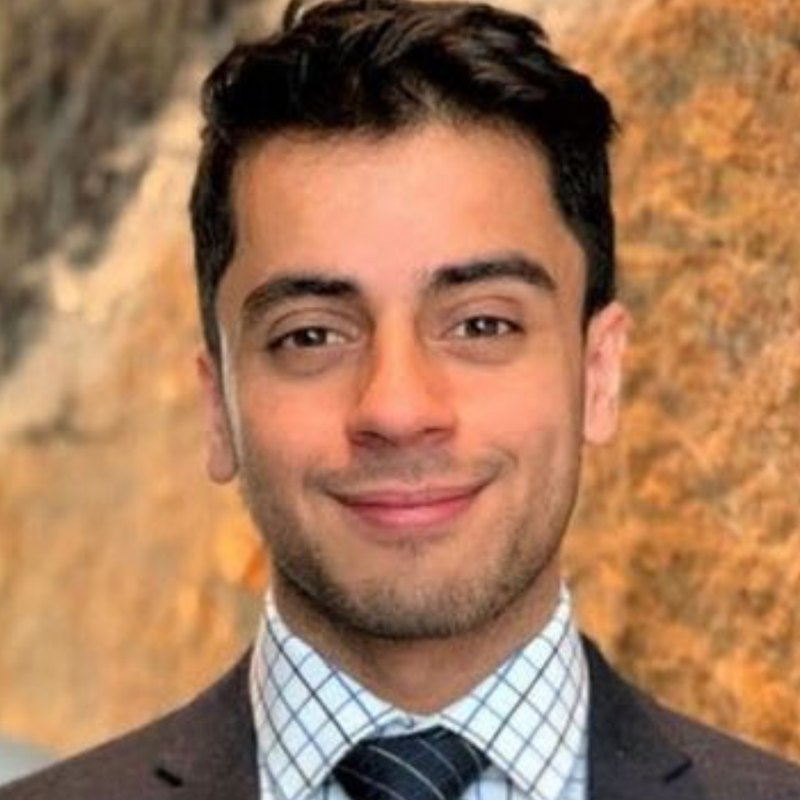
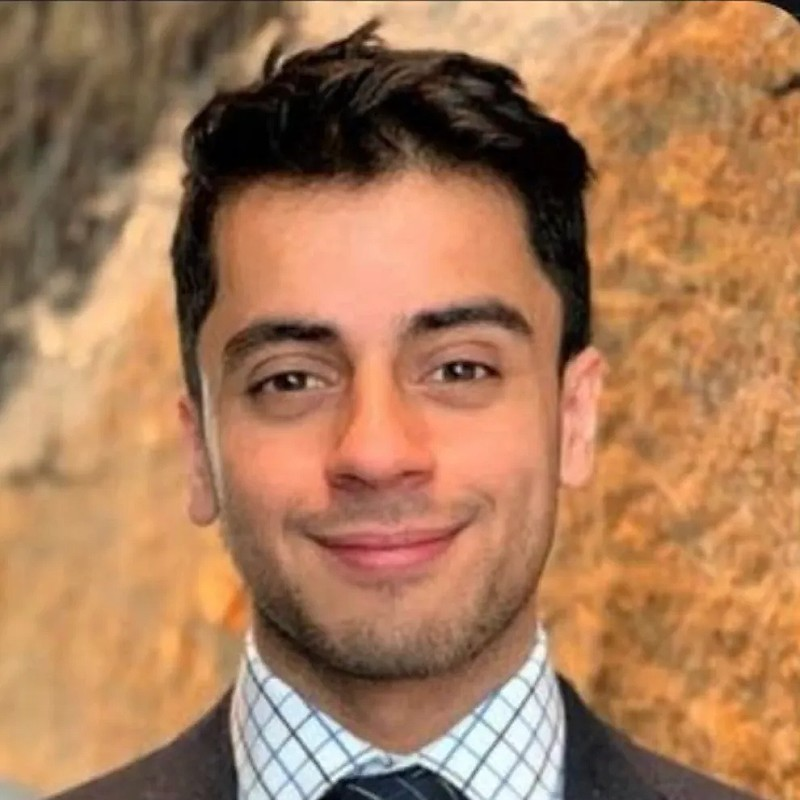
About v3: SF type, efferd-style team grid, new photos; Blog in header; remove monospace labels

diff --git a/src/styles/pages.css b/src/styles/pages.css
@@ -22,11 +22,10 @@ main.pg h2 { font-size: clamp(26px, 3vw, 36px); letter-spacing: -0.025em; }
 .pg-prose .mission { font-size: clamp(22px, 2.4vw, 28px); line-height: 1.3; font-weight: 600; letter-spacing: -0.02em; }
 .pg-founder { display: grid; grid-template-columns: 120px 1fr; gap: 20px; align-items: start; }
 .pg-founder img, .pg-founder picture { width: 120px; height: 120px; border-radius: 20px; object-fit: cover; }
-.pg-mono { width: 120px; height: 120px; border-radius: 20px; display: grid; place-items: center; font: 600 36px var(--mono); letter-spacing: -0.02em; color: var(--accent); background: color-mix(in srgb, var(--accent) 12%, transparent); border: 1px solid var(--line); }
 .rel { display: grid; grid-template-columns: 180px 1fr; gap: 6px 32px; padding: 22px 0; border-top: 1px solid var(--line); }
 .rel:last-child { border-bottom: 1px solid var(--line); }
 .rel-v { display: grid; gap: 2px; align-content: start; }
-.rel-v a { font: 600 15px var(--mono); text-decoration: none; }
+.rel-v a { font: 600 15px var(--sans); text-decoration: none; }
 .rel-v time { font-size: 14px; color: var(--muted); }
 .rel ul { display: grid; gap: 6px; }
 .rel li { position: relative; padding-left: 18px; font-size: 16.5px; line-height: 1.5; }
@@ -37,14 +36,14 @@ main.pg .pg-card h2, main.pg .plan-h h2 { font-size: 19px; letter-spacing: -0.01
 .pg-links a { font-weight: 600; text-decoration: none; }
 .pg-prose h2[id] { scroll-margin-top: 90px; }
 
-/* ---- /about (v2): hero, story, beliefs, people grids, call to action. Motion is opacity/transform only and off for reduced motion. ---- */
-.ab-hero { padding: 120px 0 64px; }
-.ab-eyebrow { font: 600 13px var(--mono); letter-spacing: 0.08em; text-transform: uppercase; color: var(--accent); padding: 6px 14px; border: 1px solid color-mix(in srgb, var(--accent) 30%, var(--line)); border-radius: 999px; background: color-mix(in srgb, var(--accent) 8%, transparent); margin-bottom: 26px; }
-main.pg .ab-hero h1 { font-size: clamp(42px, 7vw, 88px); max-width: 14ch; line-height: 1.02; text-wrap: balance; }
-:is(:lang(ko), :lang(ja), :lang(zh-CN)) main.pg .ab-hero h1 { max-width: 12ch; line-height: 1.18; }
-.ab-lead { font-size: clamp(19px, 2.2vw, 26px); max-width: 24em; color: var(--text); opacity: 0.78; }
-.ab-s { padding: 72px 0; }
-.ab-s > .wrap > h2 { margin-bottom: 28px; }
+/* ---- /about (v3): plain hero, story, principles and people in a centered grid with thin gradient dividers (SF type only). Motion is opacity/transform and off for reduced motion. ---- */
+.ab-hero { padding: 128px 0 72px; }
+.ab-hero::before { display: none; }
+main.pg .ab-hero h1 { font-size: clamp(42px, 7vw, 88px); max-width: 14ch; line-height: 1.04; text-wrap: balance; font-weight: 700; }
+:is(:lang(ko), :lang(ja), :lang(zh-CN)) main.pg .ab-hero h1 { max-width: 12ch; line-height: 1.2; }
+.ab-lead { font-size: clamp(19px, 2.2vw, 26px); max-width: 24em; color: var(--muted); }
+.ab-s { padding: 80px 0; }
+.ab-c { text-align: center; margin-bottom: 40px; }
 .ab-story { display: grid; grid-template-columns: minmax(0, 5fr) minmax(0, 7fr); gap: 48px; align-items: start; }
 .ab-story h2 { margin-bottom: 18px; }
 .ab-gh { display: inline-flex; align-items: center; gap: 8px; font-weight: 600; text-decoration: none; color: var(--accent); }
@@ -52,59 +51,77 @@ main.pg .ab-hero h1 { font-size: clamp(42px, 7vw, 88px); max-width: 14ch; line-h
 .ab-gh:hover svg { transform: translateX(4px); }
 .ab-st { display: grid; gap: 20px; font-size: 19px; line-height: 1.65; }
 .ab-path { display: grid; grid-template-columns: 1fr auto 1fr; gap: 12px; align-items: center; margin-top: 8px; }
-.ab-stage { display: grid; gap: 4px; padding: 20px; border: 1px solid var(--line); border-radius: 18px; background: var(--surface); }
+.ab-stage { display: grid; gap: 4px; padding: 18px 20px; border-radius: 16px; background: color-mix(in srgb, var(--text) 4%, transparent); }
 .ab-stage b { font-size: 17px; letter-spacing: -0.01em; }
 .ab-stage span { font-size: 14.5px; line-height: 1.4; color: var(--muted); }
-.ab-stage.on { border-color: color-mix(in srgb, var(--accent) 45%, var(--line)); background: color-mix(in srgb, var(--accent) 7%, var(--surface)); }
-.ab-arrow { color: var(--accent); }
-.ab-bel { display: grid; grid-template-columns: repeat(3, minmax(0, 1fr)); gap: 16px; }
-.ab-b { padding: 28px; border: 1px solid var(--line); border-radius: 22px; background: var(--surface); }
-.ab-n { font: 600 13px var(--mono); color: var(--accent); letter-spacing: 0.06em; }
-.ab-b h3 { margin: 18px 0 8px; font-size: 21px; letter-spacing: -0.02em; }
+.ab-stage.on { background: color-mix(in srgb, var(--accent) 9%, transparent); }
+.ab-arrow { color: var(--muted); }
+/* grid of cells split by thin vertical gradient lines */
+.ab-grid { --ln: linear-gradient(to bottom, color-mix(in srgb, var(--text) 4%, transparent), color-mix(in srgb, var(--text) 14%, transparent) 8%, color-mix(in srgb, var(--text) 14%, transparent) 92%, color-mix(in srgb, var(--text) 4%, transparent)); position: relative; display: grid; grid-template-columns: repeat(3, minmax(0, 1fr)); }
+.ab-grid::before, .ab-grid::after { content: ''; position: absolute; top: 0; bottom: 0; width: 1px; background: var(--ln); }
+.ab-grid::before { left: 0; } .ab-grid::after { right: 0; }
+.ab-grid > * { position: relative; }
+.ab-grid > *:not(:nth-child(3n + 1))::before { content: ''; position: absolute; top: 0; bottom: 0; left: 0; width: 1px; background: var(--ln); }
+.ab-n2 { grid-template-columns: repeat(2, minmax(0, 1fr)); max-width: 66.6%; margin-inline: auto; }
+.ab-n2 > *:not(:nth-child(3n + 1))::before { content: none; }
+.ab-n2 > *:nth-child(2)::before { content: ''; }
+.ab-b { padding: 8px 32px 12px; }
+.ab-b h3 { font-size: 20px; letter-spacing: -0.015em; margin: 0 0 8px; }
 .ab-b p { color: var(--muted); font-size: 16px; line-height: 1.55; }
-.ab-grid { display: grid; grid-template-columns: repeat(3, minmax(0, 1fr)); gap: 20px; }
-.ab-p { display: flex; flex-direction: column; border: 1px solid var(--line); border-radius: 24px; background: var(--surface); padding: 12px 12px 22px; }
-.ab-ph { position: relative; aspect-ratio: 1; border-radius: 16px; overflow: hidden; background: color-mix(in srgb, var(--accent) 10%, var(--surface)); }
-.ab-ph img, .ab-ph picture { display: block; width: 100%; height: 100%; object-fit: cover; }
-.ab-ph img { transition: transform 600ms cubic-bezier(0.22, 1, 0.36, 1); }
-.ab-mono { width: 100%; height: 100%; display: grid; place-items: center; font: 600 56px var(--mono); color: var(--accent); }
-.ab-pb { display: flex; flex-direction: column; flex: 1; padding: 18px 10px 0; }
-.ab-pb h3 { font-size: 22px; letter-spacing: -0.02em; margin: 0; }
-.ab-role { margin-top: 4px; font: 600 13px var(--mono); letter-spacing: 0.02em; color: var(--accent); }
-.ab-bio { margin-top: 12px; color: var(--muted); font-size: 15.5px; line-height: 1.55; }
-.ab-soc { margin-top: auto; padding-top: 16px; display: flex; align-items: center; gap: 14px; }
-.ab-in { display: inline-grid; place-items: center; width: 36px; height: 36px; border-radius: 10px; border: 1px solid var(--line); color: var(--text); transition: color 150ms, border-color 150ms, background-color 150ms; }
-.ab-in:hover { color: var(--accent); border-color: var(--accent); background: color-mix(in srgb, var(--accent) 8%, transparent); }
-.ab-ln { font-weight: 600; font-size: 14.5px; text-decoration: none; }
-.ab-cta { text-align: center; padding: 64px 24px; border-radius: 28px; border: 1px solid color-mix(in srgb, var(--accent) 28%, var(--line)); background: radial-gradient(80% 120% at 50% 130%, color-mix(in srgb, var(--accent) 22%, transparent), transparent 70%), var(--surface); }
-.ab-cta h2 { font-size: clamp(28px, 4vw, 44px); letter-spacing: -0.03em; max-width: 18ch; margin: 0 auto; text-wrap: balance; }
-.ab-cta p { margin-top: 12px; color: var(--muted); font-size: 18px; }
-.ab-ctas { margin-top: 28px; display: flex; flex-wrap: wrap; justify-content: center; gap: 12px; }
+.ab-p { display: flex; flex-direction: column; align-items: center; text-align: center; padding: 32px 24px 28px; }
+.ab-d { width: 100%; }
+main.pg details.ab-d { background: none; border-radius: 0; margin: 0; }
+main.pg .ab-d > summary { padding: 0; min-height: 0; font-weight: 400; justify-content: center; gap: 4px; }
+main.pg .ab-d p.ab-bio { padding: 0; }
+.ab-d > summary { list-style: none; cursor: pointer; display: flex; flex-direction: column; align-items: center; gap: 4px; border-radius: 12px; }
+.ab-d > summary::-webkit-details-marker { display: none; }
+.ab-d > summary::after { content: ''; width: 7px; height: 7px; margin-top: 10px; border-right: 1.6px solid var(--muted); border-bottom: 1.6px solid var(--muted); transform: rotate(45deg); transition: transform 220ms cubic-bezier(0.22, 1, 0.36, 1); opacity: 0.7; }
+.ab-d[open] > summary::after { transform: rotate(-135deg); margin-top: 14px; }
+.ab-d > summary:focus-visible { outline: 2px solid var(--accent); outline-offset: 6px; }
+.ab-av { width: 76px; height: 76px; border-radius: 50%; overflow: hidden; margin-bottom: 12px; background: color-mix(in srgb, var(--text) 8%, var(--bg)); display: block; box-shadow: 0 0 0 1px var(--line); }
+.ab-av img, .ab-av picture { display: block; width: 100%; height: 100%; object-fit: cover; transition: filter 400ms, transform 500ms cubic-bezier(0.22, 1, 0.36, 1); }
+.ab-mono { width: 100%; height: 100%; display: grid; place-items: center; font-size: 24px; font-weight: 600; color: var(--muted); }
+.ab-name { font-size: 18px; font-weight: 600; letter-spacing: -0.015em; }
+.ab-role { font-size: 14.5px; color: var(--muted); line-height: 1.4; }
+.ab-bio { margin: 14px auto 0; max-width: 30ch; color: var(--muted); font-size: 14.5px; line-height: 1.55; text-align: left; }
+:is(:lang(ko), :lang(ja), :lang(zh-CN)) .ab-bio { max-width: 26em; }
+.ab-soc { margin-top: 16px; display: flex; justify-content: center; gap: 4px; }
+.ab-soc a { display: inline-grid; place-items: center; width: 32px; height: 32px; border-radius: 9px; color: var(--muted); transition: color 150ms, background-color 150ms; }
+.ab-soc a:hover { color: var(--text); background: color-mix(in srgb, var(--text) 8%, transparent); }
+.ab-cta { text-align: center; padding: 96px 0 24px; }
+.ab-cta h2 { font-size: clamp(30px, 4.4vw, 52px); letter-spacing: -0.03em; max-width: 16ch; margin: 0 auto; text-wrap: balance; }
+.ab-cta p { margin-top: 14px; color: var(--muted); font-size: 19px; }
+.ab-ctas { margin-top: 30px; display: flex; flex-wrap: wrap; justify-content: center; gap: 12px; }
 .ab-end { padding-bottom: 112px; }
-@media (max-width: 900px) { .ab-story { grid-template-columns: 1fr; gap: 24px; } .ab-bel, .ab-grid { grid-template-columns: repeat(2, minmax(0, 1fr)); } }
+@media (max-width: 900px) { .ab-story { grid-template-columns: 1fr; gap: 24px; } }
 @media (max-width: 640px) {
   .ab-hero { padding: 72px 0 40px; }
-  .ab-s { padding: 48px 0; }
-  .ab-bel, .ab-grid { grid-template-columns: 1fr; }
+  .ab-s { padding: 52px 0; }
   .ab-st { font-size: 17.5px; }
   .ab-path { grid-template-columns: 1fr; } .ab-arrow { transform: rotate(90deg); justify-self: center; }
-  .ab-p { flex-direction: row; gap: 14px; padding: 12px; align-items: flex-start; border-radius: 20px; }
-  .ab-ph { width: 112px; flex: none; border-radius: 14px; }
-  .ab-pb { padding: 2px 4px 0 0; } .ab-pb h3 { font-size: 19px; } .ab-bio { font-size: 14.5px; margin-top: 8px; } .ab-soc { padding-top: 12px; }
-  .ab-mono { font-size: 34px; }
-  .ab-cta { padding: 44px 20px; border-radius: 22px; }
+  .ab-grid, .ab-n2 { grid-template-columns: repeat(2, minmax(0, 1fr)); max-width: none; }
+  .ab-grid > *::before { content: none !important; }
+  .ab-grid > *:nth-child(2n)::before { content: '' !important; }
+  .ab-bel { grid-template-columns: 1fr; } .ab-bel > *::before { content: none !important; } .ab-bel::before, .ab-bel::after { display: none; }
+  .ab-b { padding: 8px 0 20px; }
+  .ab-p { padding: 24px 12px 20px; }
+  .ab-av { width: 64px; height: 64px; }
+  .ab-name { font-size: 16px; } .ab-role { font-size: 13.5px; }
+  .ab-cta { padding: 64px 0 8px; }
 }
 @media (prefers-reduced-motion: no-preference) {
   .ab .ld { animation: ab-in 700ms cubic-bezier(0.22, 1, 0.36, 1) both; }
   .ab .ab-lead.ld { animation-delay: 120ms; }
-  .ab .ab-eyebrow.ld { animation-delay: 0ms; }
   .ab[data-rv] .rv { opacity: 0; transform: translateY(20px); }
-  .ab[data-rv] .rv.in { opacity: 1; transform: none; transition: opacity 650ms cubic-bezier(0.22, 1, 0.36, 1), transform 650ms cubic-bezier(0.22, 1, 0.36, 1), border-color 200ms, box-shadow 250ms; transition-delay: calc(var(--i, 0) * 90ms); }
+  .ab[data-rv] .rv.in { opacity: 1; transform: none; transition: opacity 650ms cubic-bezier(0.22, 1, 0.36, 1), transform 650ms cubic-bezier(0.22, 1, 0.36, 1); transition-delay: calc(var(--i, 0) * 90ms); }
   .ab[data-rv] .rv.in.done { transition-delay: 0s; }
-  @keyframes ab-in { from { opacity: 0; transform: translateY(14px); } }
+  .ab-d[open] .ab-bio { animation: ab-in 320ms cubic-bezier(0.22, 1, 0.36, 1) both; }
+  @keyframes ab-in { from { opacity: 0; transform: translateY(8px); } }
+}
+@media (hover: hover) {
+  .ab-av img { filter: grayscale(0.85); }
+  .ab-p:hover .ab-av img, .ab-d[open] .ab-av img, .ab-p:focus-within .ab-av img { filter: none; }
 }
 @media (hover: hover) and (prefers-reduced-motion: no-preference) {
-  .ab-p, .ab-b, .ab-stage { transition: transform 260ms cubic-bezier(0.22, 1, 0.36, 1), box-shadow 260ms, border-color 200ms; }
-  .ab-p:hover, .ab-b:hover { transform: translateY(-5px); border-color: color-mix(in srgb, var(--accent) 35%, var(--line)); box-shadow: 0 18px 40px -22px rgb(10 10 12 / 0.35); }
-  .ab-p:hover .ab-ph img { transform: scale(1.04); }
+  .ab-p:hover .ab-av img { transform: scale(1.06); }
 }

diff --git a/src/styles/design.css b/src/styles/design.css
@@ -22,7 +22,7 @@ header.site nav a.cur { color: var(--text); }
 .dz-tabs { display: flex; flex-wrap: wrap; gap: var(--s-2); padding-top: var(--s-5); }
 .dz-tabs a { display: inline-flex; align-items: center; min-height: var(--tap); padding: 0 var(--s-4); border: var(--bw-1) solid var(--line); border-radius: 99px; background: var(--surface); color: var(--text); font: 500 15px var(--sans); text-decoration: none; }
 .dz-tabs a[aria-current='page'] { background: var(--text); color: var(--bg); border-color: var(--text); }
-.dz-note { margin: var(--s-4) 0 0; font: 400 13px/1.5 var(--mono); color: var(--muted); max-width: none; }
+.dz-note { margin: var(--s-4) 0 0; font: 400 14px/1.5 var(--sans); color: var(--muted); max-width: none; }
 .dz-note strong { color: var(--accent); font-weight: 600; }
 
 .dz { word-break: keep-all; overflow-wrap: anywhere; }
@@ -35,7 +35,7 @@ header.site nav a.cur { color: var(--text); }
 .dz h1.sm { font-size: clamp(32px, 4.2vw, 48px); }
 .dz h2 { font-size: 30px; line-height: 1.2; margin-bottom: var(--s-2); }
 @media (max-width: 640px) { .dz h2 { font-size: 25px; } }
-.dz .eb { font: 600 13px var(--mono); color: var(--accent); margin-bottom: var(--s-4); }
+.dz .eb { font: 600 14px var(--sans); color: var(--accent); margin-bottom: var(--s-4); }
 .dz .lead { color: var(--muted); font-size: 19px; max-width: 640px; margin-bottom: var(--s-5); }
 @media (max-width: 640px) { .dz .lead { font-size: 17px; } }
 .dz .sub { color: var(--muted); max-width: 640px; margin-bottom: var(--s-5); }
@@ -45,7 +45,7 @@ header.site nav a.cur { color: var(--text); }
 
 .dz .card { background: var(--surface); border-radius: 14px; padding: 22px; border: var(--bw-1) solid var(--line); }
 .dz .card p { margin: 0; color: var(--muted); font-size: 15px; }
-.dz .n { font: 700 13px var(--mono); color: var(--accent); margin-bottom: 10px; }
+.dz .n { font: 700 14px var(--sans); color: var(--accent); margin-bottom: 10px; }
 .dz .flow { display: grid; grid-template-columns: 1fr 36px 1fr 36px 1fr; align-items: stretch; }
 .dz .ar { display: grid; place-items: center; color: var(--muted); font-size: 22px; }
 @media (max-width: 700px) { .dz .flow { grid-template-columns: 1fr; } .dz .ar { transform: rotate(90deg); height: 28px; } }
@@ -66,7 +66,7 @@ header.site nav a.cur { color: var(--text); }
 }
 
 .dz .codeblock { margin: var(--s-4) 0 0; }
-.dz .ph { font: 12px var(--mono); color: var(--muted); margin-top: var(--s-2); }
+.dz .ph { font: 13px var(--sans); color: var(--muted); margin-top: var(--s-2); }
 .dz .bridge { display: flex; flex-wrap: wrap; gap: var(--s-5); justify-content: space-between; align-items: center; }
 .dz .bridge p { margin: 0; font-size: 18px; max-width: 600px; }
 .dz a.l { font-weight: 600; }
@@ -75,7 +75,7 @@ header.site nav a.cur { color: var(--text); }
 .dz .docs { display: grid; grid-template-columns: 240px minmax(0, 1fr) 200px; gap: var(--s-7); padding: var(--s-7) 0 0; }
 .dz .docs > * { min-width: 0; }
 .dz .side { position: sticky; top: 88px; align-self: start; }
-.dz .side h4 { font: 600 12px var(--mono); color: var(--muted); text-transform: uppercase; letter-spacing: 0.05em; margin: 22px 0 8px; }
+.dz .side h4 { font: 600 13px var(--sans); color: var(--muted); margin: 22px 0 8px; }
 .dz .side h4:first-child { margin-top: 0; }
 .dz .side a, .dz .toc a { display: flex; align-items: center; min-height: 36px; padding: 0 12px; border-radius: var(--r-1); color: var(--muted); font-size: 15px; text-decoration: none; }
 .dz .side a:hover, .dz .toc a:hover { color: var(--text); }
@@ -86,7 +86,7 @@ header.site nav a.cur { color: var(--text); }
 .dz .docs .body p { color: var(--muted); max-width: 640px; }
 .dz .toc { position: sticky; top: 88px; align-self: start; font-size: 14px; color: var(--muted); }
 .dz .toc .lab { margin-bottom: var(--s-2); }
-.dz .lab { font: 600 12px var(--mono); color: var(--muted); text-transform: uppercase; letter-spacing: 0.04em; }
+.dz .lab { font: 600 13px var(--sans); color: var(--muted); }
 .dz .warn { border-left: 3px solid var(--accent); background: var(--surface); padding: 16px 20px; border-radius: 0 var(--r-2) var(--r-2) 0; margin-top: var(--s-3); }
 .dz .warn p { margin: 0 0 var(--s-2); }
 .dz .warn ul { margin: 0 0 var(--s-3); padding-left: 1.2em; color: var(--text); }
@@ -115,7 +115,7 @@ header.site nav a.cur { color: var(--text); }
 .dz .sheets { display: grid; gap: var(--s-5); }
 .dz .pal { display: flex; height: 64px; border-radius: 10px; overflow: hidden; border: var(--bw-1) solid var(--line); margin: var(--s-2) 0 var(--s-4); }
 .dz .pal i { flex: 1; }
-.dz .cap { font: 12px var(--mono); color: var(--muted); margin-top: 10px; }
+.dz .cap { font: 13px var(--sans); color: var(--muted); margin-top: 10px; }
 .dz .big { font-size: 30px; font-weight: 700; letter-spacing: -0.03em; margin: var(--s-2) 0; }
 .dz .shapes { display: flex; gap: 10px; margin: 12px 0; }
 .dz .shapes i { width: 56px; height: 56px; border: var(--bw-2) solid var(--text); }

diff --git a/src/styles/home.css b/src/styles/home.css
@@ -54,7 +54,7 @@ main.home .handled h3 { font-size: 15px; font-weight: 600; color: var(--muted); 
 .step { display: grid; grid-template-columns: minmax(0, 5fr) minmax(0, 7fr); gap: 80px; align-items: center; }
 .step.rev { grid-template-columns: minmax(0, 7fr) minmax(0, 5fr); }
 .step.rev .txt { order: 2; }
-.step .n { display: block; font: 600 15px/1 var(--mono); color: var(--accent); letter-spacing: 0.04em; }
+.step .n { display: block; font: 600 15px/1 var(--sans); color: var(--accent); letter-spacing: 0.04em; }
 main.home .step h3 { margin-top: var(--s-4); font-size: clamp(26px, 2.6vw, 34px); line-height: 1.15; letter-spacing: -0.02em; }
 .step .txt p { margin-top: var(--s-4); font-size: 18px; line-height: 1.6; color: var(--muted); max-width: 460px; }
 .stage { display: grid; place-items: center; padding: 48px 40px; border-radius: 24px; background: var(--sunken); border: 1px solid var(--line); min-height: 380px; }
@@ -215,7 +215,7 @@ main.home .hero .shot { padding-bottom: 120px; }
 .rail li:last-child::before { right: 50%; }
 .rail li.is-soon::before { background: none; border-top: 2px dashed var(--dash); }
 .rail a { display: grid; gap: var(--s-2); text-decoration: none; color: var(--text); padding-right: var(--s-4); }
-.rail .n { position: absolute; top: 0; left: 0; display: grid; place-items: center; height: 28px; padding: 0 10px; border-radius: 99px; background: var(--accent); color: var(--on-accent); font: 600 13px/1 var(--mono); letter-spacing: 0.02em; }
+.rail .n { position: absolute; top: 0; left: 0; display: grid; place-items: center; height: 28px; padding: 0 10px; border-radius: 99px; background: var(--accent); color: var(--on-accent); font: 600 13px/1 var(--sans); letter-spacing: 0; }
 .rail .is-soon .n { background: var(--bg); color: var(--muted); border: 1.5px dashed var(--dash); }
 .rail .t { margin-top: 24px; font-size: 17px; font-weight: 600; line-height: 1.35; letter-spacing: -0.01em; }
 .how .steps { margin-top: 96px; }
@@ -236,7 +236,7 @@ main.home .cmp h3 { font-size: 15px; font-weight: 600; letter-spacing: 0; paddin
 .outcome { display: flex; flex-wrap: wrap; align-items: center; justify-content: space-between; gap: var(--s-4) var(--s-6); margin-top: var(--s-5); padding: var(--s-4) var(--s-5) var(--s-4) var(--s-6); border: 1px solid var(--line); border-radius: 16px; }
 .outcome ul { display: flex; flex-wrap: wrap; gap: var(--s-3) var(--s-6); }
 .outcome li { display: flex; align-items: center; gap: var(--s-2); font-size: 15.5px; font-weight: 500; }
-.outcome .on { font: 600 12px/1 var(--mono); color: var(--accent); }
+.outcome .on { font: 600 12px/1 var(--sans); color: var(--accent); }
 
 /* FAQ: a way out for questions the list does not answer */
 .fqh .more { margin-top: var(--s-5); font-size: 16px; line-height: 1.55; color: var(--muted); max-width: 320px; }

diff --git a/src/styles/sections.css b/src/styles/sections.css
@@ -78,7 +78,7 @@ main.home .head.center .kicker::before { display: none; }
 .fsteps { position: relative; display: grid; grid-template-columns: repeat(3, minmax(0, 1fr)); gap: var(--s-6); margin-top: 72px; counter-reset: s; }
 .fsteps::before { content: ''; position: absolute; left: calc(100% / 6); right: calc(100% / 6); top: 21px; height: 2px; background: linear-gradient(90deg, var(--accent), color-mix(in srgb, var(--accent) 30%, var(--line))); }
 .fsteps li { position: relative; text-align: center; padding: 0 var(--s-3); }
-.fn { position: relative; display: inline-grid; place-items: center; width: 44px; height: 44px; border-radius: 50%; background: var(--bg); border: 2px solid var(--accent); color: var(--accent); font: 600 14px/1 var(--mono); }
+.fn { position: relative; display: inline-grid; place-items: center; width: 44px; height: 44px; border-radius: 50%; background: var(--bg); border: 2px solid var(--accent); color: var(--accent); font: 600 14px/1 var(--sans); }
 main.home .fsteps h3 { margin-top: var(--s-5); font-size: 21px; }
 .fsteps p { margin: var(--s-3) auto 0; max-width: 330px; font-size: 16.5px; line-height: 1.55; color: var(--muted); }
 .fcta { display: flex; justify-content: center; margin-top: 56px; }

diff --git a/src/data/flags.ts b/src/data/flags.ts
@@ -38,7 +38,7 @@ export const ADVISERS: { name: string; names?: Record<string, string>; initials:
     initials: 'AS',
     photo: '/brand/akki-800.jpg',
     photoLarge: '/brand/akki-800.jpg',
-    role: { en: 'Adviser · Head of Voices at Cartesia', ko: '어드바이저 · Cartesia Head of Voices' },
+    role: { en: 'Head of Voices at Cartesia', ko: 'Cartesia Head of Voices' },
     bio: {
       en: 'Akki Shafiqullah leads Voices at Cartesia, the AI voice company, and is based in San Francisco. A former founder and Bain consultant, he advises equipe.',
       ko: 'Akki Shafiqullah는 AI 음성 회사 Cartesia에서 Voices를 이끌고, 샌프란시스코에 살아요. 창업과 Bain 컨설턴트 경험이 있고, equipe의 어드바이저예요.',
